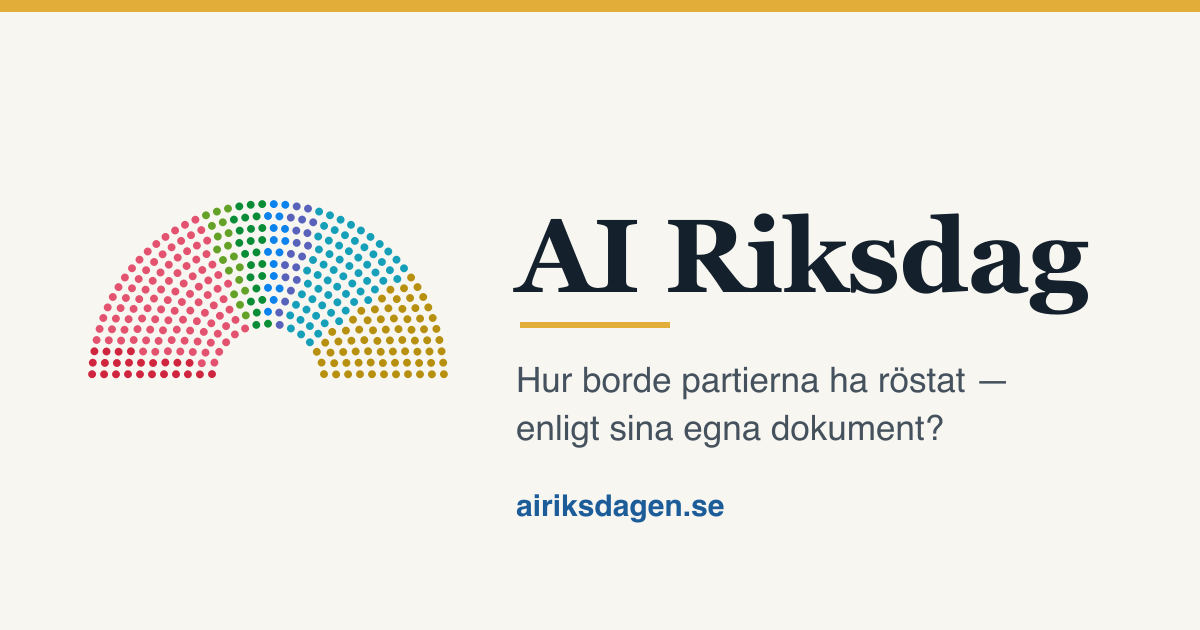
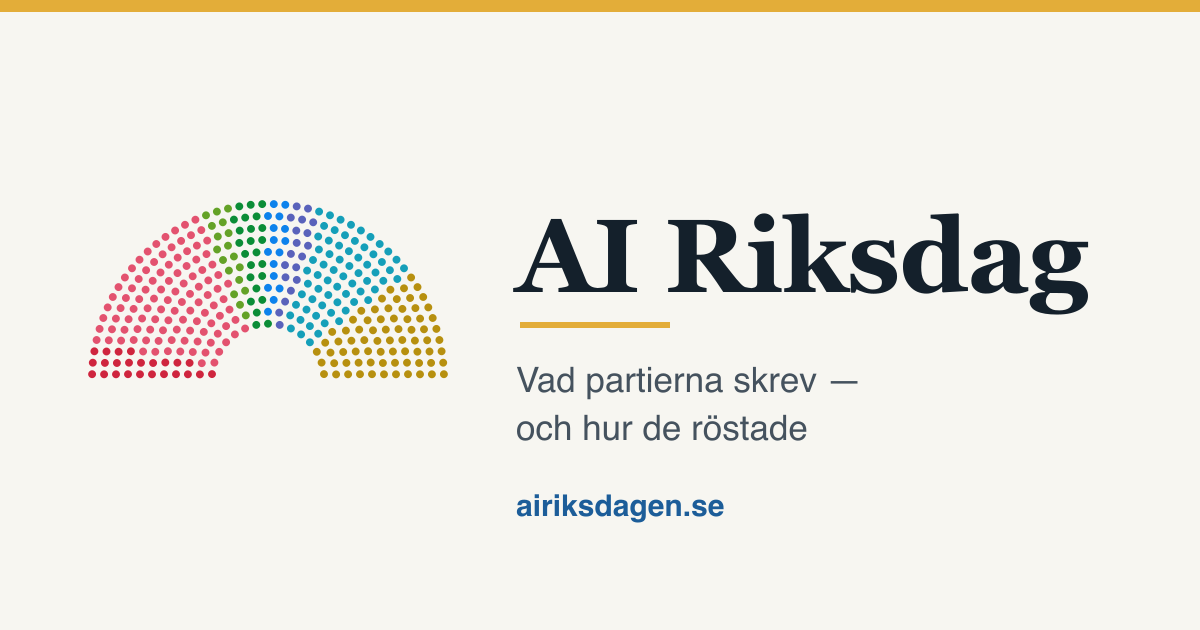
fix: say what the site is — a party's own text against its vote, not a prediction
The shared copy still described the old vote-matching design: the tagline and
share image asked how the parties "should have voted", the case page and embed
were headed "how the AI parties would have voted" over a column labelled "AI",
and /om/ defined the project as measuring how well an AI reconstructs voting
behaviour. p6 never asks for a vote — the stance is derived in code — so all of
it misdescribed the product and invited reading a divergence as a model error.

- tagline + og-image: "Vad partierna skrev — och hur de röstade"
- home intro/disclaimer, footer, meta descriptions, journalist card, timeline
- case page + embed: "What each plan points to — and how the party voted",
  column "Plan", ✓/✕ read "follows / departs from the plan"
- coalition table relabelled descriptively (with the committee / with its own
  plan / difference) instead of a predictor contest the plan loses
- /om/: "Not a prediction" paragraph; residual-risk sentence now says the prompt
  carries committee, case title and month

Two claims were false and are removed: "contamination is measured and reported
openly" (no probe has ever run) and "Cohen's kappa is reported" (shown nowhere).
Scope is "every substantive vote" (avser=sakfrågan, huvudvotering), not every vote.

Changed region(s): [[0.4317, 0.573, 0.8325, 0.6333], [0.4317, 0.6635, 0.8017, 0.7238]]

diff --git a/site/src/i18n/ui.ts b/site/src/i18n/ui.ts
@@ -4,12 +4,12 @@ export type Lang = keyof typeof languages;
 export const ui = {
   sv: {
     'site.title': 'AI Riksdag',
-    'site.tagline': 'Hur borde partierna ha röstat — enligt sina egna dokument?',
+    'site.tagline': 'Vad partierna skrev — och hur de röstade',
     // Meta descriptions. Pages with an existing intro/lede reuse it instead.
-    'meta.desc.browser': 'Sök och filtrera alla voteringar i riksdagen: vad varje beslut gällde, hur partierna röstade och hur en AI som bara läst partiernas egna dokument hade röstat.',
-    'meta.desc.parties': 'Parti för parti: överensstämmelsen mellan hur partiet faktiskt röstade och hur dess egna valmanifest och partiprogram säger att det borde ha röstat.',
+    'meta.desc.browser': 'Sök och filtrera alla voteringar i sakfrågan i riksdagen: vad varje beslut gällde, hur partierna röstade och var ett partis eget valmanifest eller partiprogram pekade åt andra hållet.',
+    'meta.desc.parties': 'Parti för parti: var partiets röster följde dess eget valmanifest och partiprogram — och var de gick emot dem.',
     'meta.desc.partySuffix': '— verkliga röster mot partiets egna dokument, sammanhållning, frånvaro och väljarstöd över mandatperioden.',
-    'meta.desc.documentSuffix': '— fulltext i det korpus AI-agenterna läser. Citat i besluten länkar direkt hit.',
+    'meta.desc.documentSuffix': '— fulltext. Varje citerad rad visar vilka voteringar som lutat sig mot den och hur partiet sedan röstade.',
     'meta.desc.about': 'Så fungerar projektet: källor, metod, prompten som agenterna får, kända begränsningar och hela datamängden som öppen data.',
     'nav.langLabel': 'Språk',
     'nav.langSwitch': 'Byt språk till',
@@ -95,15 +95,15 @@ export const ui = {
 
     'coalition.title': 'Koalitionen eller partiprogrammet?',
     'coalition.intro':
-      'Varje votering ställer utskottets förslag (Ja) mot en reservation (Nej). Två konkurrerande förklaringar till hur ett parti röstar ställs mot varandra: koalitionslinjen — rösta med utskottet, utan att veta något om partiet — och partiprogrammet, som AI-agenten läser utan att få veta vem som skrivit reservationen. Skillnaden mellan dem är mätningen.',
-    'coalition.tableTitle': 'Vad förklarar partiets röst?',
-    'coalition.baseline': 'Koalitionslinjen',
-    'coalition.programme': 'Partiprogrammet',
-    'coalition.lift': 'Programmets tillskott',
+      'Varje votering ställer utskottets förslag (Ja) mot ett motförslag (Nej). Här jämförs hur ofta varje parti röstade med utskottet med hur ofta dess röst stämde med den sida partiets egna dokument pekar mot. AI-agenten som läser dokumenten får aldrig veta vem som skrivit motförslaget, så planens sida avgörs av sakfrågan, inte av avsändaren.',
+    'coalition.tableTitle': 'Med utskottet eller med den egna planen?',
+    'coalition.baseline': 'Med utskottet',
+    'coalition.programme': 'Med egen plan',
+    'coalition.lift': 'Skillnad',
     'coalition.baselineNote':
-      'Koalitionslinjen = andelen röster som träffas av regeln ”rösta alltid Ja, med utskottet”. Partiprogrammet = hur ofta partiets egen plan pekar mot den röst partiet faktiskt lade. Tillskottet är skillnaden: noll betyder att planen inte förklarar något utöver koalitionspositionen.',
+      'Med utskottet = andelen voteringar där partiet röstade Ja, för utskottets förslag. Med egen plan = andelen där partiets röst stämde med den sida dess egna dokument pekar mot. Skillnaden är den andra minus den första: negativ betyder att partiet oftare följde utskottet än sin egen plan.',
     'coalition.govNote':
-      'Detta mäts nu utan blockdokument: M, KD och L läses mot sina egna valmanifest och partiprogram, inte mot Tidöavtalet. Att koalitionslinjen förklarar nära 99 % av deras röster medan deras egna planer ofta pekar åt ett annat håll är därför inte ett fel i mätningen — det är mätningen. Skillnaden är vad koalitionsuppgörelsen bär, inte partiprogrammet.',
+      'M, KD och L läses mot sina egna valmanifest och partiprogram, inte mot Tidöavtalet. Att de röstade med utskottet i över 99 % av voteringarna medan deras egna planer ofta pekar åt ett annat håll är därför inte ett fel i mätningen — det är resultatet. Skillnaden är vad koalitionsuppgörelsen bär, inte partiprogrammet.',
     'coalition.overrideTitle': 'När koalitionen väger tyngre än de egna dokumenten',
     'coalition.overrideIntro':
       'Voteringar där partiets egna dokument uttryckligen talar för att rösta mot utskottet — men partiet röstade Ja ändå. Uppdelat efter om partiet självt lagt reservationen.',
@@ -119,7 +119,7 @@ export const ui = {
     'coalition.casesTitle': 'Voteringarna',
     'coalition.casesByParty': 'Voteringarna listas på varje partis egen sida, tillsammans med partiets övriga siffror.',
     'coalition.casesIntro':
-      'Varje rad: partiets egna dokument sa en sak, partiet röstade en annan. Motiveringen och citaten är AI-agentens, hämtade ur partiets valmanifest.',
+      'Varje rad: partiets egna dokument sa en sak, partiet röstade en annan. Motiveringen och citaten är AI-agentens, hämtade ur partiets valmanifest eller partiprogram.',
     'coalition.aiSaid': 'Programmet sa',
     'coalition.voted': 'Röstade',
     'coalition.caveatTitle': 'Vad detta inte visar',
@@ -132,13 +132,13 @@ export const ui = {
     'nav.method': 'Metod',
     'nav.data': 'Data',
     'nav.about': 'Om',
-    'footer.about': 'Ett öppet, partipolitiskt obundet forskningsprojekt: AI-agenter som följer partiernas egna valdokument, jämförda med verkliga voteringar 2022–2026.',
+    'footer.about': 'Ett öppet, partipolitiskt obundet forskningsprojekt som kopplar partiernas egna valmanifest och partiprogram till hur de röstade i riksdagen 2022–2026 — och visar var de går isär.',
     'footer.sources': 'Källor',
     'footer.open': 'Öppet',
     'home.intro':
-      'För varje votering i riksdagen 2022–2026 avgör en AI-agent per parti vilken ståndpunkt partiet borde ha stått bakom — enbart utifrån partiets eget valmanifest och partiprogram, samt en tidsbunden lägesbild. Blockdokument som Tidöavtalet och budgetmotioner ingår medvetet inte: varje parti läses mot sin egen plan. Ståndpunkten jämförs sedan med hur partiet faktiskt röstade.',
+      'Varje votering i sakfrågan i riksdagen 2022–2026, kopplad till vad partiernas egna valmanifest och partiprogram säger i frågan. För varje votering och parti läser en AI-agent partiets egna dokument — och inga andras — tar ställning till det motförslaget kräver och citerar ordagrant de stycken ståndpunkten vilar på. Varje citat länkar till sin rad i dokumentet. Där partiets egen text pekar åt ett håll och rösten gick åt det andra markeras det. Blockdokument som Tidöavtalet och budgetmotioner ingår medvetet inte: varje parti mäts mot sin egen plan.',
     'home.disclaimer':
-      'Detta är rekonstruktion, inte prediktion: modellens träningsdata innehåller sannolikt de verkliga utfallen. Kontamineringen mäts och redovisas öppet. Projektet är partipolitiskt obundet.',
+      'Ingen förutsägelse: AI:n ombeds aldrig gissa hur partiet röstade och får aldrig veta utfallet. Den redovisar vad partiets egen text stödjer — avvikelsen från den verkliga rösten är resultatet. Skulle modellen minnas utfallen drar det läsningarna mot de verkliga rösterna, så avvikelserna blir färre, inte fler. Projektet är partipolitiskt obundet.',
     'home.gapByParty': 'Hur ofta röstade partierna mot sin egen plan?',
     'home.rowOf': 'av',
     'home.gapLead': 'Andel av partiets uttryckliga åtaganden — där planen tog ställning i just den sakfrågan — som partiet ändå röstade emot.',
@@ -151,16 +151,16 @@ export const ui = {
     'home.secBrowse': 'Utforska',
     'home.secParties': 'Per parti',
     'home.latest': 'Senaste ärenden',
-    'home.noai': 'Simuleringen har inte körts ännu — statistik visas när resultaten finns.',
+    'home.noai': 'AI-läsningen har inte körts ännu — statistik visas när resultaten finns.',
     'home.driftHeadline': 'av rösterna avviker från vad partiets egna dokument pekar på',
     'home.timeline': 'Navigera i tiden',
-    'home.timelineNote': 'Varje ruta är en månad: antal voteringar, färg efter överensstämmelse AI ↔ verklig röst (grön = följer planen). Klicka för månadens ärenden.',
+    'home.timelineNote': 'Varje ruta är en månad: antal voteringar, färg efter hur ofta partiernas röster följde den egna planen (grön = följer planen). Klicka för månadens ärenden.',
     'home.cases': 'ärenden',
     'home.search': 'Sök ärende',
     'home.searchBtn': 'Sök',
     'home.forJournalists': 'Journalist',
     'home.forJournalistsTitle': 'Var avviker partierna från planen?',
-    'home.forJournalistsText': 'Alla voteringar där AI:ns dokumenttrogna röst skiljer sig från den verkliga — sorterade, sökbara, med källor och inbäddningsbara grafer.',
+    'home.forJournalistsText': 'Alla voteringar där ett partis eget valmanifest eller partiprogram pekade åt ett håll och partiet röstade åt det andra — sorterade, sökbara, med källor och inbäddningsbara grafer.',
     'home.forResearchers': 'Forskare',
     'home.forResearchersTitle': 'Metod, data och reproducerbarhet',
     'home.forResearchersText': 'Full metodbeskrivning, kontamineringsförsvar, öppna prompter, rådata och kod.',
@@ -181,8 +181,8 @@ export const ui = {
     'home.linkBackCta': 'Öppna ett partidokument',
     'case.actual': 'Verklig röst',
     'case.ai': 'Planens ståndpunkt',
-    'hemi.aiHead': 'Så hade AI-partierna röstat',
-    'hemi.aiNote': 'För varje parti: vad dess egen plan – valmanifest och partiprogram – talar för i just detta ärende, bredvid hur partiet faktiskt röstade. AI:n kan bara svara Ja eller Nej; ett parti kan också avstå.',
+    'hemi.aiHead': 'Vad planen pekar mot — och hur partiet röstade',
+    'hemi.aiNote': 'För varje parti: den röst partiets eget valmanifest och partiprogram pekar mot i just detta ärende, bredvid hur partiet faktiskt röstade. En plan kan bara peka mot Ja eller Nej; ett parti kan också avstå.',
     'case.committee': 'Utskottets förslag',
     'case.alternatives': 'Motförslag',
     'case.docrefs': 'Plandokument',
@@ -212,8 +212,8 @@ export const ui = {
     'case.shareEmbed': 'Bädda in som widget (iframe):',
     'case.embedPreview': 'förhandsgranska',
     'case.copy': 'Kopiera',
-    'case.match': 'lika',
-    'case.mismatch': 'skiljer',
+    'case.match': 'följer planen',
+    'case.mismatch': 'avviker från planen',
     'case.confidence': 'säkerhet',
     'case.countsTip': 'Ja/Nej/Avstår/Frånvarande',
     'case.coverage': 'täckning i dokumenten',
@@ -341,7 +341,7 @@ export const ui = {
     // Kolumnrubriker i jämförelsetabellen. Egna, korta strängar — rubriken
     // ovanför tabellen använder de långa (case.ai / case.actual / tier.label),
     // men som kolumnhuvuden styr de bredden och måste rymmas på en telefon.
-    'col.plan': 'AI',
+    'col.plan': 'Plan',
     'col.vote': 'Röst',
     'col.conf': 'Säkerhet',
     'col.tier': 'Evidens',
@@ -365,12 +365,12 @@ export const ui = {
     'party.funnelNote': 'The headline is computed on the last row — the only divisions that can show a commitment was broken.',
     'party.funnelWhy': 'Why so few?',
     'site.title': 'AI Riksdag',
-    'site.tagline': 'How should the parties have voted — according to their own documents?',
+    'site.tagline': 'What the parties wrote — and how they voted',
     // Meta descriptions. Pages with an existing intro/lede reuse it instead.
-    'meta.desc.browser': 'Search and filter every vote in the Swedish Riksdag: what each decision turned on, how the parties voted, and how an AI reading only their own documents would have voted.',
-    'meta.desc.parties': 'Party by party: how closely each one’s actual votes match what its own election manifesto and party programme say it should have done.',
+    'meta.desc.browser': 'Search and filter every substantive vote in the Swedish Riksdag: what each decision turned on, how the parties voted, and where a party’s own manifesto or programme pointed the other way.',
+    'meta.desc.parties': 'Party by party: where each one’s votes followed its own election manifesto and party programme — and where they went against them.',
     'meta.desc.partySuffix': '— actual votes against the party’s own documents, cohesion, absence and polling support across the term.',
-    'meta.desc.documentSuffix': '— full text in the corpus the AI agents read. Citations in the decisions link straight here.',
+    'meta.desc.documentSuffix': '— full text. Every cited line shows which divisions leaned on it and how the party then voted.',
     'meta.desc.about': 'How the project works: sources, method, the prompt the agents receive, known limitations, and the full dataset as open data.',
     'nav.langLabel': 'Language',
     'nav.langSwitch': 'Switch language to',
@@ -456,15 +456,15 @@ export const ui = {
 
     'coalition.title': 'The coalition, or the party programme?',
     'coalition.intro':
-      "Every division pits the committee's proposal (Ja) against a reservation (Nej). Two rival explanations of how a party votes are set against each other: the coalition line — vote with the committee, knowing nothing about the party — and the party programme, which the AI agent reads without ever being told who authored the reservation. The gap between them is the measurement.",
-    'coalition.tableTitle': "What explains the party's vote?",
-    'coalition.baseline': 'Coalition line',
-    'coalition.programme': 'Party programme',
-    'coalition.lift': 'What the programme adds',
+      'Every division sets the committee’s proposal (Ja) against a counter-proposal (Nej). This section compares how often each party voted with the committee with how often its vote matched the side its own documents point to. The AI agent reading those documents is never told who wrote the counter-proposal, so the plan’s side is settled by the substance, not by who proposed it.',
+    'coalition.tableTitle': 'With the committee, or with its own plan?',
+    'coalition.baseline': 'With the committee',
+    'coalition.programme': 'With its own plan',
+    'coalition.lift': 'Difference',
     'coalition.baselineNote':
-      'Coalition line = the share of votes hit by the rule "always vote Ja, with the committee". Party programme = how often the party\'s own plan points to the vote it actually cast. The difference is what the plan adds: zero means it explains nothing beyond coalition position.',
+      'With the committee = the share of divisions where the party voted Ja, for the committee’s proposal. With its own plan = the share where its vote matched the side its own documents point to. The difference is the second minus the first: negative means the party followed the committee more often than its own plan.',
     'coalition.govNote':
-      'This is now measured without bloc documents: M, KD and L are read against their own manifestos and party programmes, not against the Tidö agreement. That the coalition line accounts for nearly 99% of their votes while their own plans often point elsewhere is therefore not an error in the measurement — it is the measurement. The difference is what the coalition deal carries, not the party programme.',
+      'M, KD and L are read against their own manifestos and party programmes, not against the Tidö agreement. That they voted with the committee in over 99% of divisions while their own plans often point elsewhere is therefore not an error in the measurement — it is the result. The difference is what the coalition deal carries, not the party programme.',
     'coalition.overrideTitle': 'When the coalition outweighs a party’s own documents',
     'coalition.overrideIntro':
       'Divisions where the party’s own documents explicitly imply voting against the committee — yet it voted Ja anyway. Split by whether the party moved the reservation itself.',
@@ -480,7 +480,7 @@ export const ui = {
     'coalition.casesTitle': 'The divisions',
     'coalition.casesByParty': 'The individual divisions are listed on each party\'s own page, alongside the rest of that party\'s figures.',
     'coalition.casesIntro':
-      "Each row: the party's own documents said one thing, the party voted another. The reasoning and quotes are the AI agent's, drawn from the party's election manifesto.",
+      'Each row: the party’s own documents said one thing, the party voted another. The reasoning and quotes are the AI agent’s, drawn from the party’s election manifesto or party programme.',
     'coalition.aiSaid': 'Programme said',
     'coalition.voted': 'Voted',
     'coalition.caveatTitle': 'What this does not show',
@@ -491,13 +491,13 @@ export const ui = {
     'nav.method': 'Methodology',
     'nav.data': 'Data',
     'nav.about': 'About',
-    'footer.about': 'An open, politically unaffiliated research project: AI agents following each party\'s own election documents, compared with real Riksdag votes 2022–2026.',
+    'footer.about': 'An open, politically unaffiliated research project linking each party’s own election manifesto and party programme to how it voted in the Riksdag 2022–2026 — and showing where the two part ways.',
     'footer.sources': 'Sources',
     'footer.open': 'Open',
     'home.intro':
-      'For every chamber vote in the Swedish Riksdag 2022–2026, one AI agent per party decides which side that party should have backed — based solely on the party\'s own election manifesto and party programme, plus a point-in-time snapshot of the country. Bloc documents such as the Tidö agreement and budget motions are deliberately excluded: each party is read against its own plan alone. The stance is then compared with how the party actually voted.',
+      'Every substantive vote in the Swedish Riksdag 2022–2026, linked to what each party’s own election manifesto and party programme say about the question. For each vote and party, an AI agent reads that party’s documents — and no one else’s — takes a stance on what the counter-proposal demands, and quotes the passages that stance rests on word for word. Every quote links to its line in the document. Where a party’s own text points one way and its vote went the other, the site flags it. Bloc documents such as the Tidö agreement and budget motions are deliberately left out: each party is measured against its own plan alone.',
     'home.disclaimer':
-      'This is reconstruction, not prediction: the model\'s training data likely contains the real outcomes. Contamination is measured and reported openly. The project is politically unaffiliated.',
+      'Not a prediction: the AI is never asked how the party voted and never told the outcome. It reports what the party’s own text supports — the divergence from the real vote is the result. If the model remembered the outcomes, that would pull its readings toward the real votes and show fewer divergences, not more. The project is politically unaffiliated.',
     'home.gapByParty': 'How often did parties vote against their own plan?',
     'home.rowOf': 'of',
     'home.gapLead': 'Share of the party\u2019s explicit commitments — where the plan took a position on that very question — that it voted against anyway.',
@@ -510,16 +510,16 @@ export const ui = {
     'home.secBrowse': 'Explore',
     'home.secParties': 'By party',
     'home.latest': 'Latest cases',
-    'home.noai': 'The simulation has not run yet — statistics appear once results exist.',
+    'home.noai': 'The AI reading has not run yet — statistics appear once results exist.',
     'home.driftHeadline': 'of votes deviate from what the party\'s own documents indicate',
     'home.timeline': 'Navigate by time',
-    'home.timelineNote': 'Each cell is a month: number of votes, colored by AI ↔ actual agreement (green = follows the plan). Click for that month\'s cases.',
+    'home.timelineNote': 'Each cell is a month: number of votes, coloured by how often parties’ votes followed their own plan (green = follows the plan). Click for that month’s cases.',
     'home.cases': 'cases',
     'home.search': 'Search cases',
     'home.searchBtn': 'Search',
     'home.forJournalists': 'Journalist',
     'home.forJournalistsTitle': 'Where do parties break from the plan?',
-    'home.forJournalistsText': 'Every vote where the AI\'s document-faithful vote differs from the real one — sorted, searchable, with sources and embeddable graphics.',
+    'home.forJournalistsText': 'Every vote where a party’s own manifesto or programme pointed one way and the party voted the other — sorted, searchable, with sources and embeddable graphics.',
     'home.forResearchers': 'Researcher',
     'home.forResearchersTitle': 'Methods, data and reproducibility',
     'home.forResearchersText': 'Full methodology, contamination defence, open prompts, raw data and code.',
@@ -537,8 +537,8 @@ export const ui = {
     'home.linkBackCta': 'Open a party document',
     'case.actual': 'Actual vote',
     'case.ai': 'The plan\'s stance',
-    'hemi.aiHead': 'How the AI parties would have voted',
-    'hemi.aiNote': 'For each party: what its own plan – election manifesto and party programme – argues for in this case, next to how the party actually voted. The AI can only answer Yes or No; a party can also abstain.',
+    'hemi.aiHead': 'What each plan points to — and how the party voted',
+    'hemi.aiNote': 'For each party: the vote its own election manifesto and party programme point to in this case, next to how the party actually voted. A plan can only point to Yes or No; a party can also abstain.',
     'case.committee': "Committee proposal",
     'case.alternatives': 'Counter-proposals',
     'case.docrefs': 'Plan documents',
@@ -568,8 +568,8 @@ export const ui = {
     'case.shareEmbed': 'Embed as a widget (iframe):',
     'case.embedPreview': 'preview',
     'case.copy': 'Copy',
-    'case.match': 'match',
-    'case.mismatch': 'differs',
+    'case.match': 'follows the plan',
+    'case.mismatch': 'departs from the plan',
     'case.confidence': 'confidence',
     'case.countsTip': 'Yes/No/Abstain/Absent',
     'case.coverage': 'document coverage',
@@ -686,7 +686,7 @@ export const ui = {
     // Comparison-table column headers. Separate short strings — the h2 above the
     // table keeps the full wording (case.ai / case.actual / tier.label), but as
     // column headers these drive the column width and must fit on a phone.
-    'col.plan': 'AI',
+    'col.plan': 'Plan',
     'col.vote': 'Vote',
     'col.conf': 'Confidence',
     'col.tier': 'Evidence',
